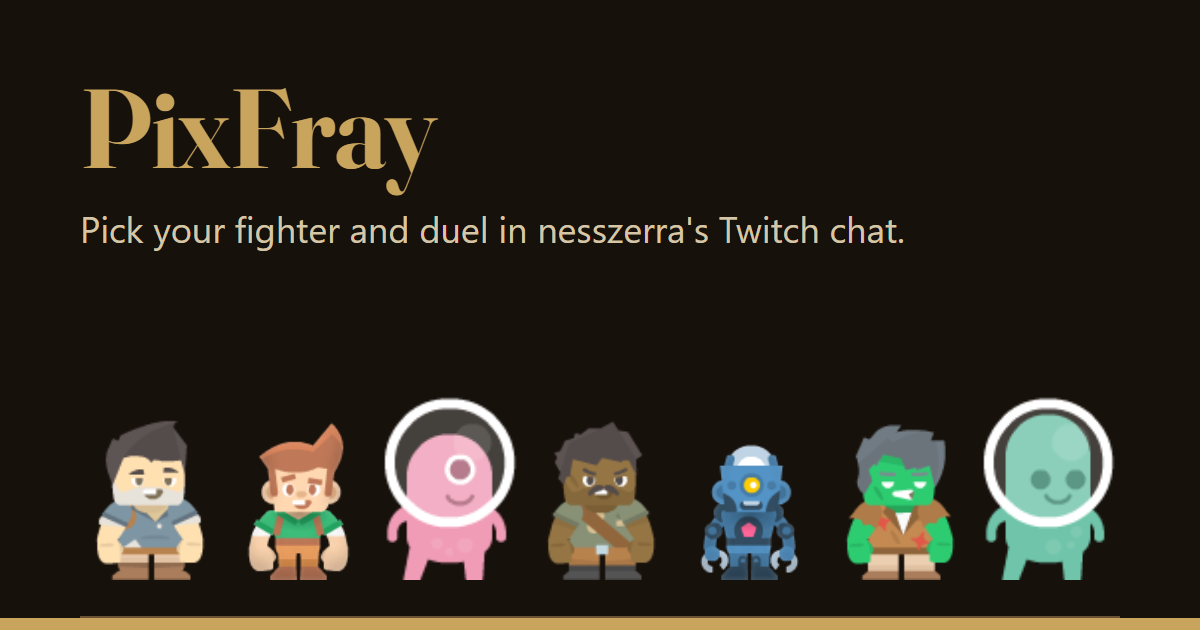
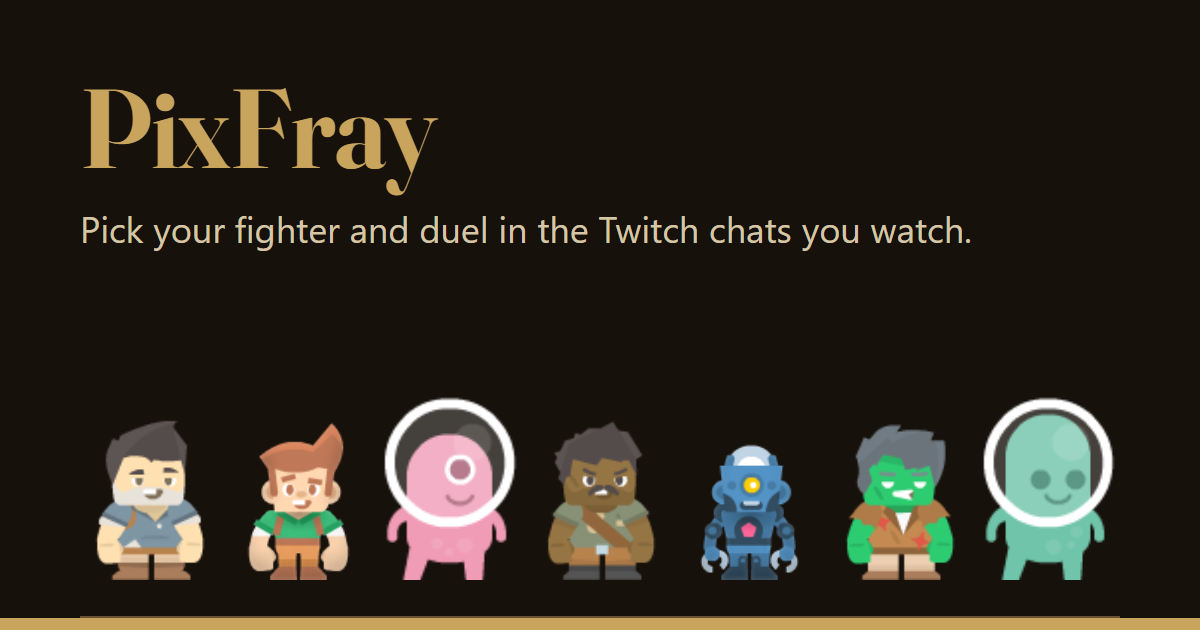
Make the link preview name no channel

Changed region(s): [[0.4317, 0.3317, 0.8017, 0.3921]]

diff --git a/index.html b/index.html
@@ -1,12 +1,12 @@
 <!doctype html>
 <html lang="en"><head><meta charset="UTF-8"><meta name="viewport" content="width=device-width,initial-scale=1">
-<title>PixFray: pick your fighter on %SITE_CHANNEL%</title>
-<meta data-channel name="description" content="Pick your PixFray character, colors, gear and pet for the %SITE_CHANNEL% Twitch channel.">
+<title>PixFray: pick your fighter for Twitch chat duels</title>
+<meta data-channel name="description" content="Pick your PixFray character, colors, gear and pet for the Twitch stream you watch.">
 <link rel="canonical" href="%SITE_ORIGIN%/">
 <meta name="theme-color" content="#0d0906">
 <meta property="og:type" content="website"><meta property="og:site_name" content="PixFray"><meta property="og:url" content="%SITE_ORIGIN%/">
-<meta property="og:title" content="PixFray: pick your fighter on %SITE_CHANNEL%">
-<meta property="og:description" content="Pick a character and nameplate color, then duel other viewers in %SITE_CHANNEL%'s Twitch chat.">
+<meta property="og:title" content="PixFray: pick your fighter for Twitch chat duels">
+<meta property="og:description" content="Pick a character and nameplate color, then duel other viewers in the Twitch chat of the stream you watch.">
 <meta property="og:image" content="%SITE_ORIGIN%/og.png"><meta property="og:image:width" content="1200"><meta property="og:image:height" content="630">
 <meta property="og:image:alt" content="PixFray characters lined up under the PixFray name">
 <meta name="twitter:card" content="summary_large_image">
